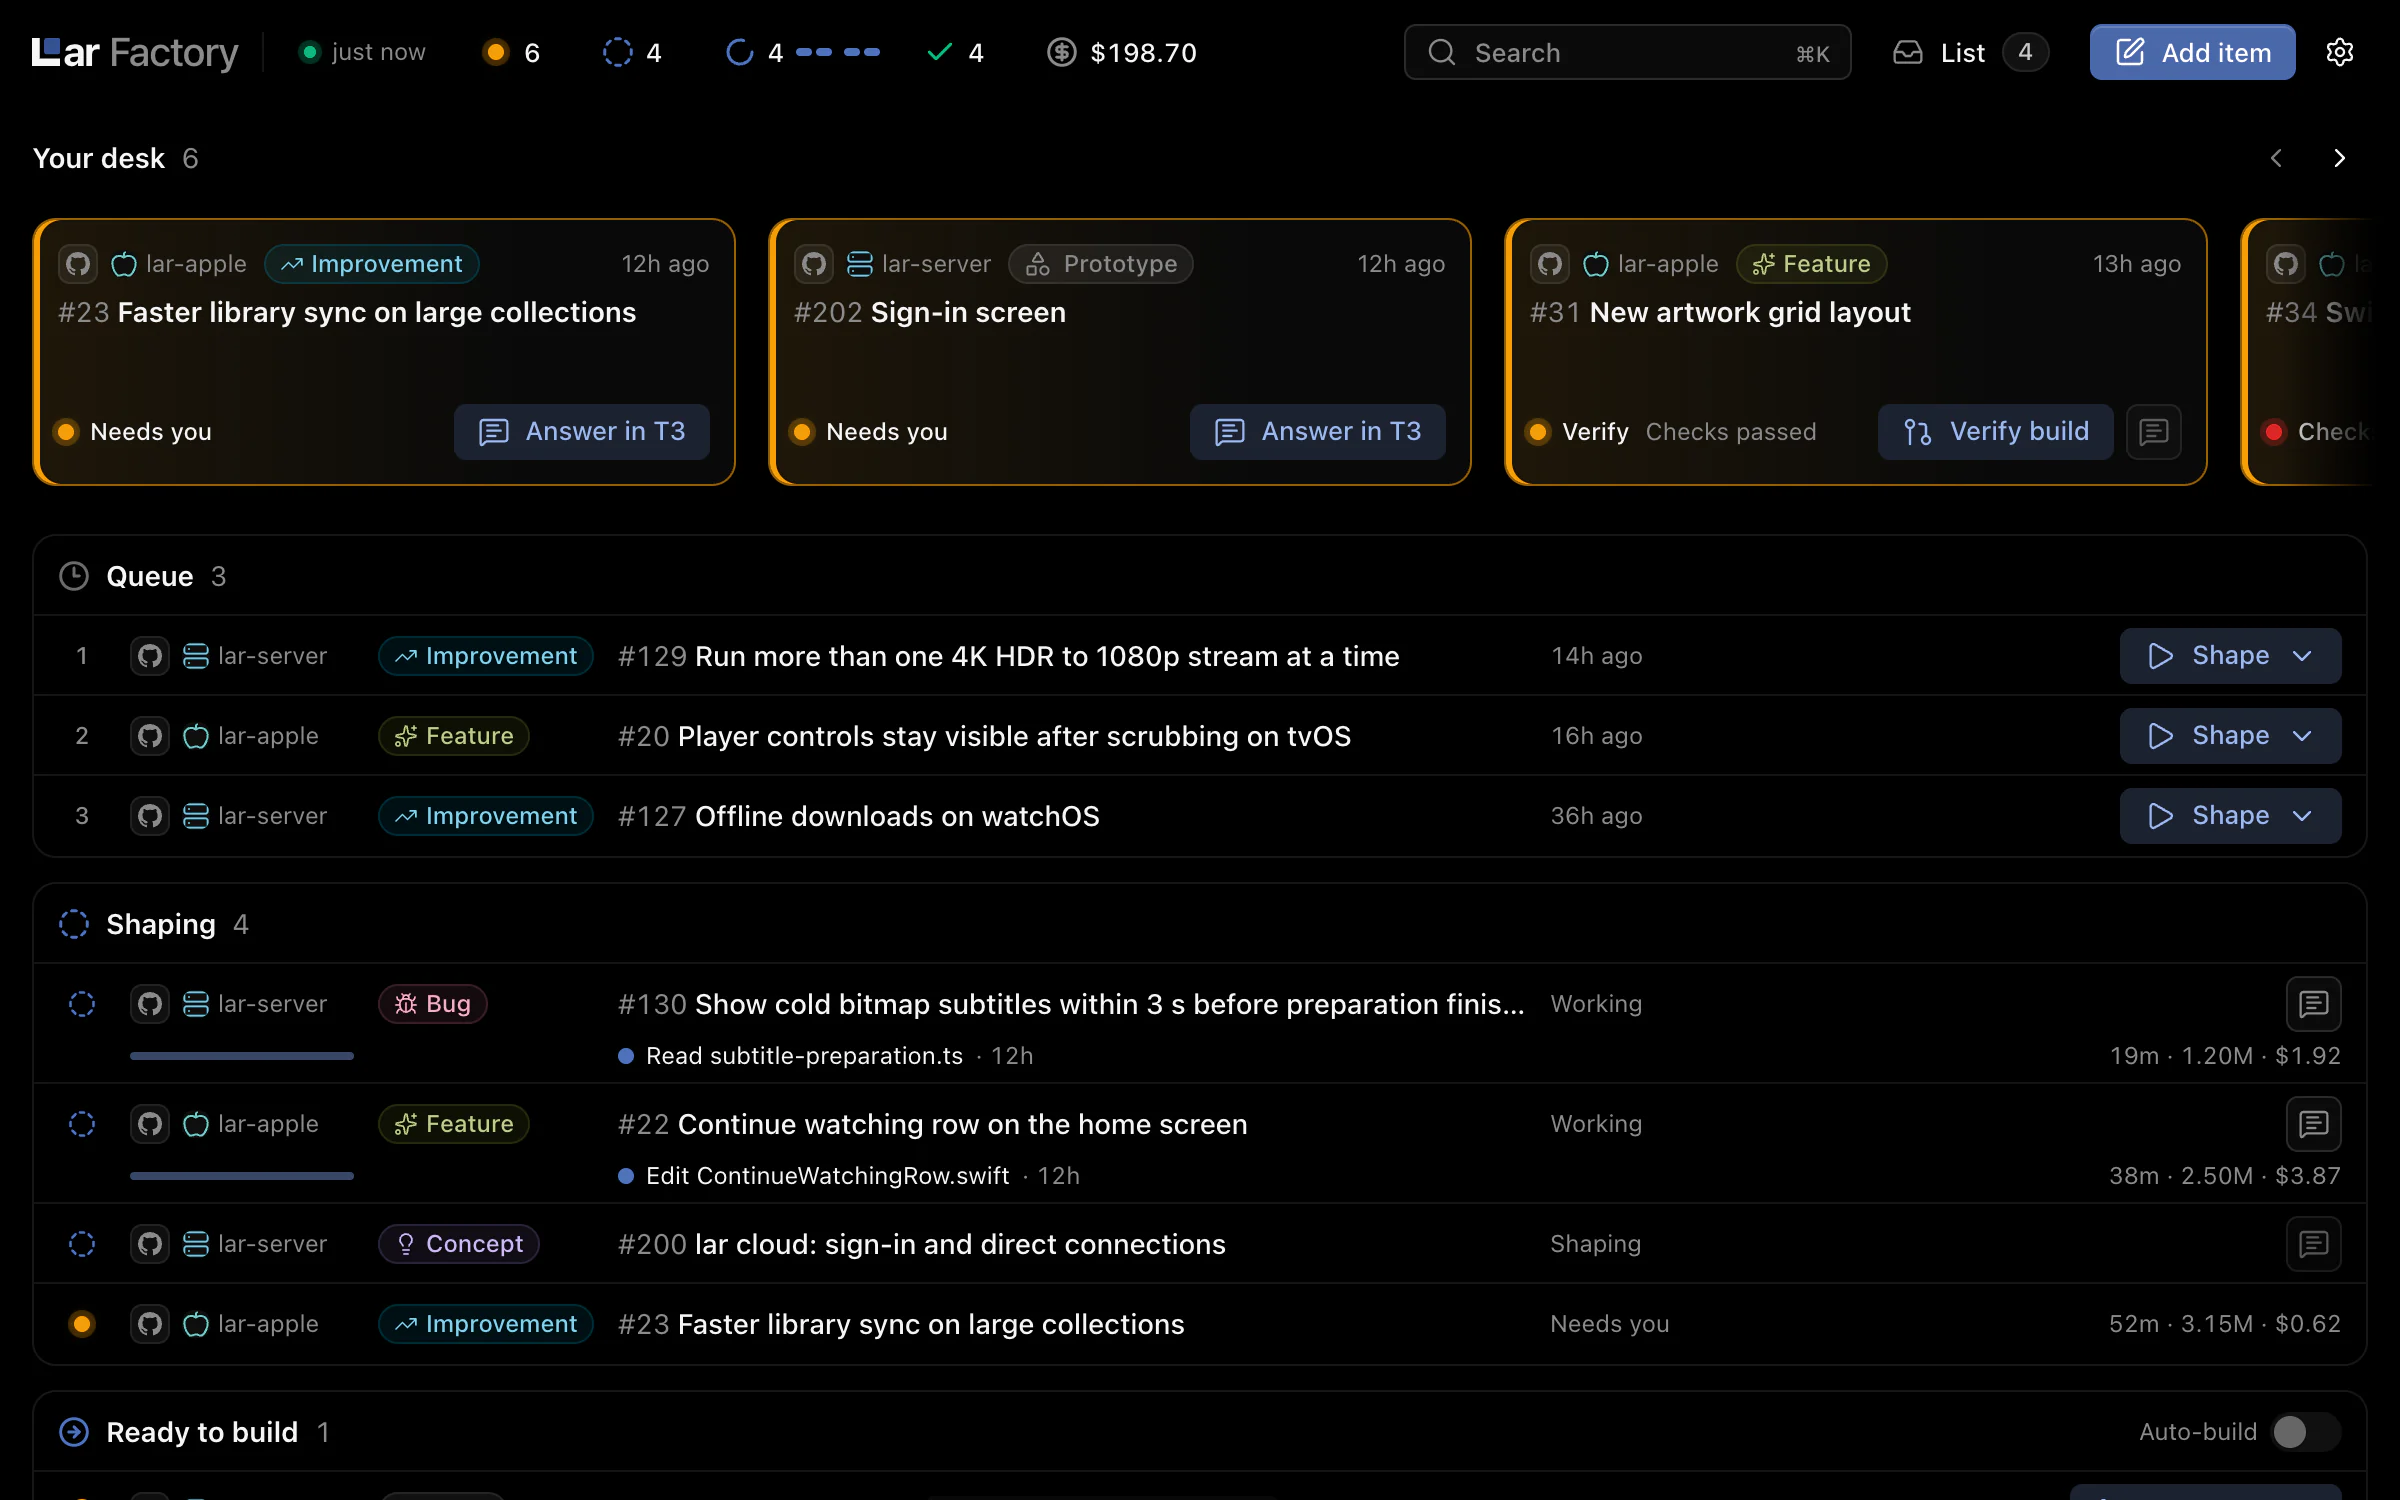
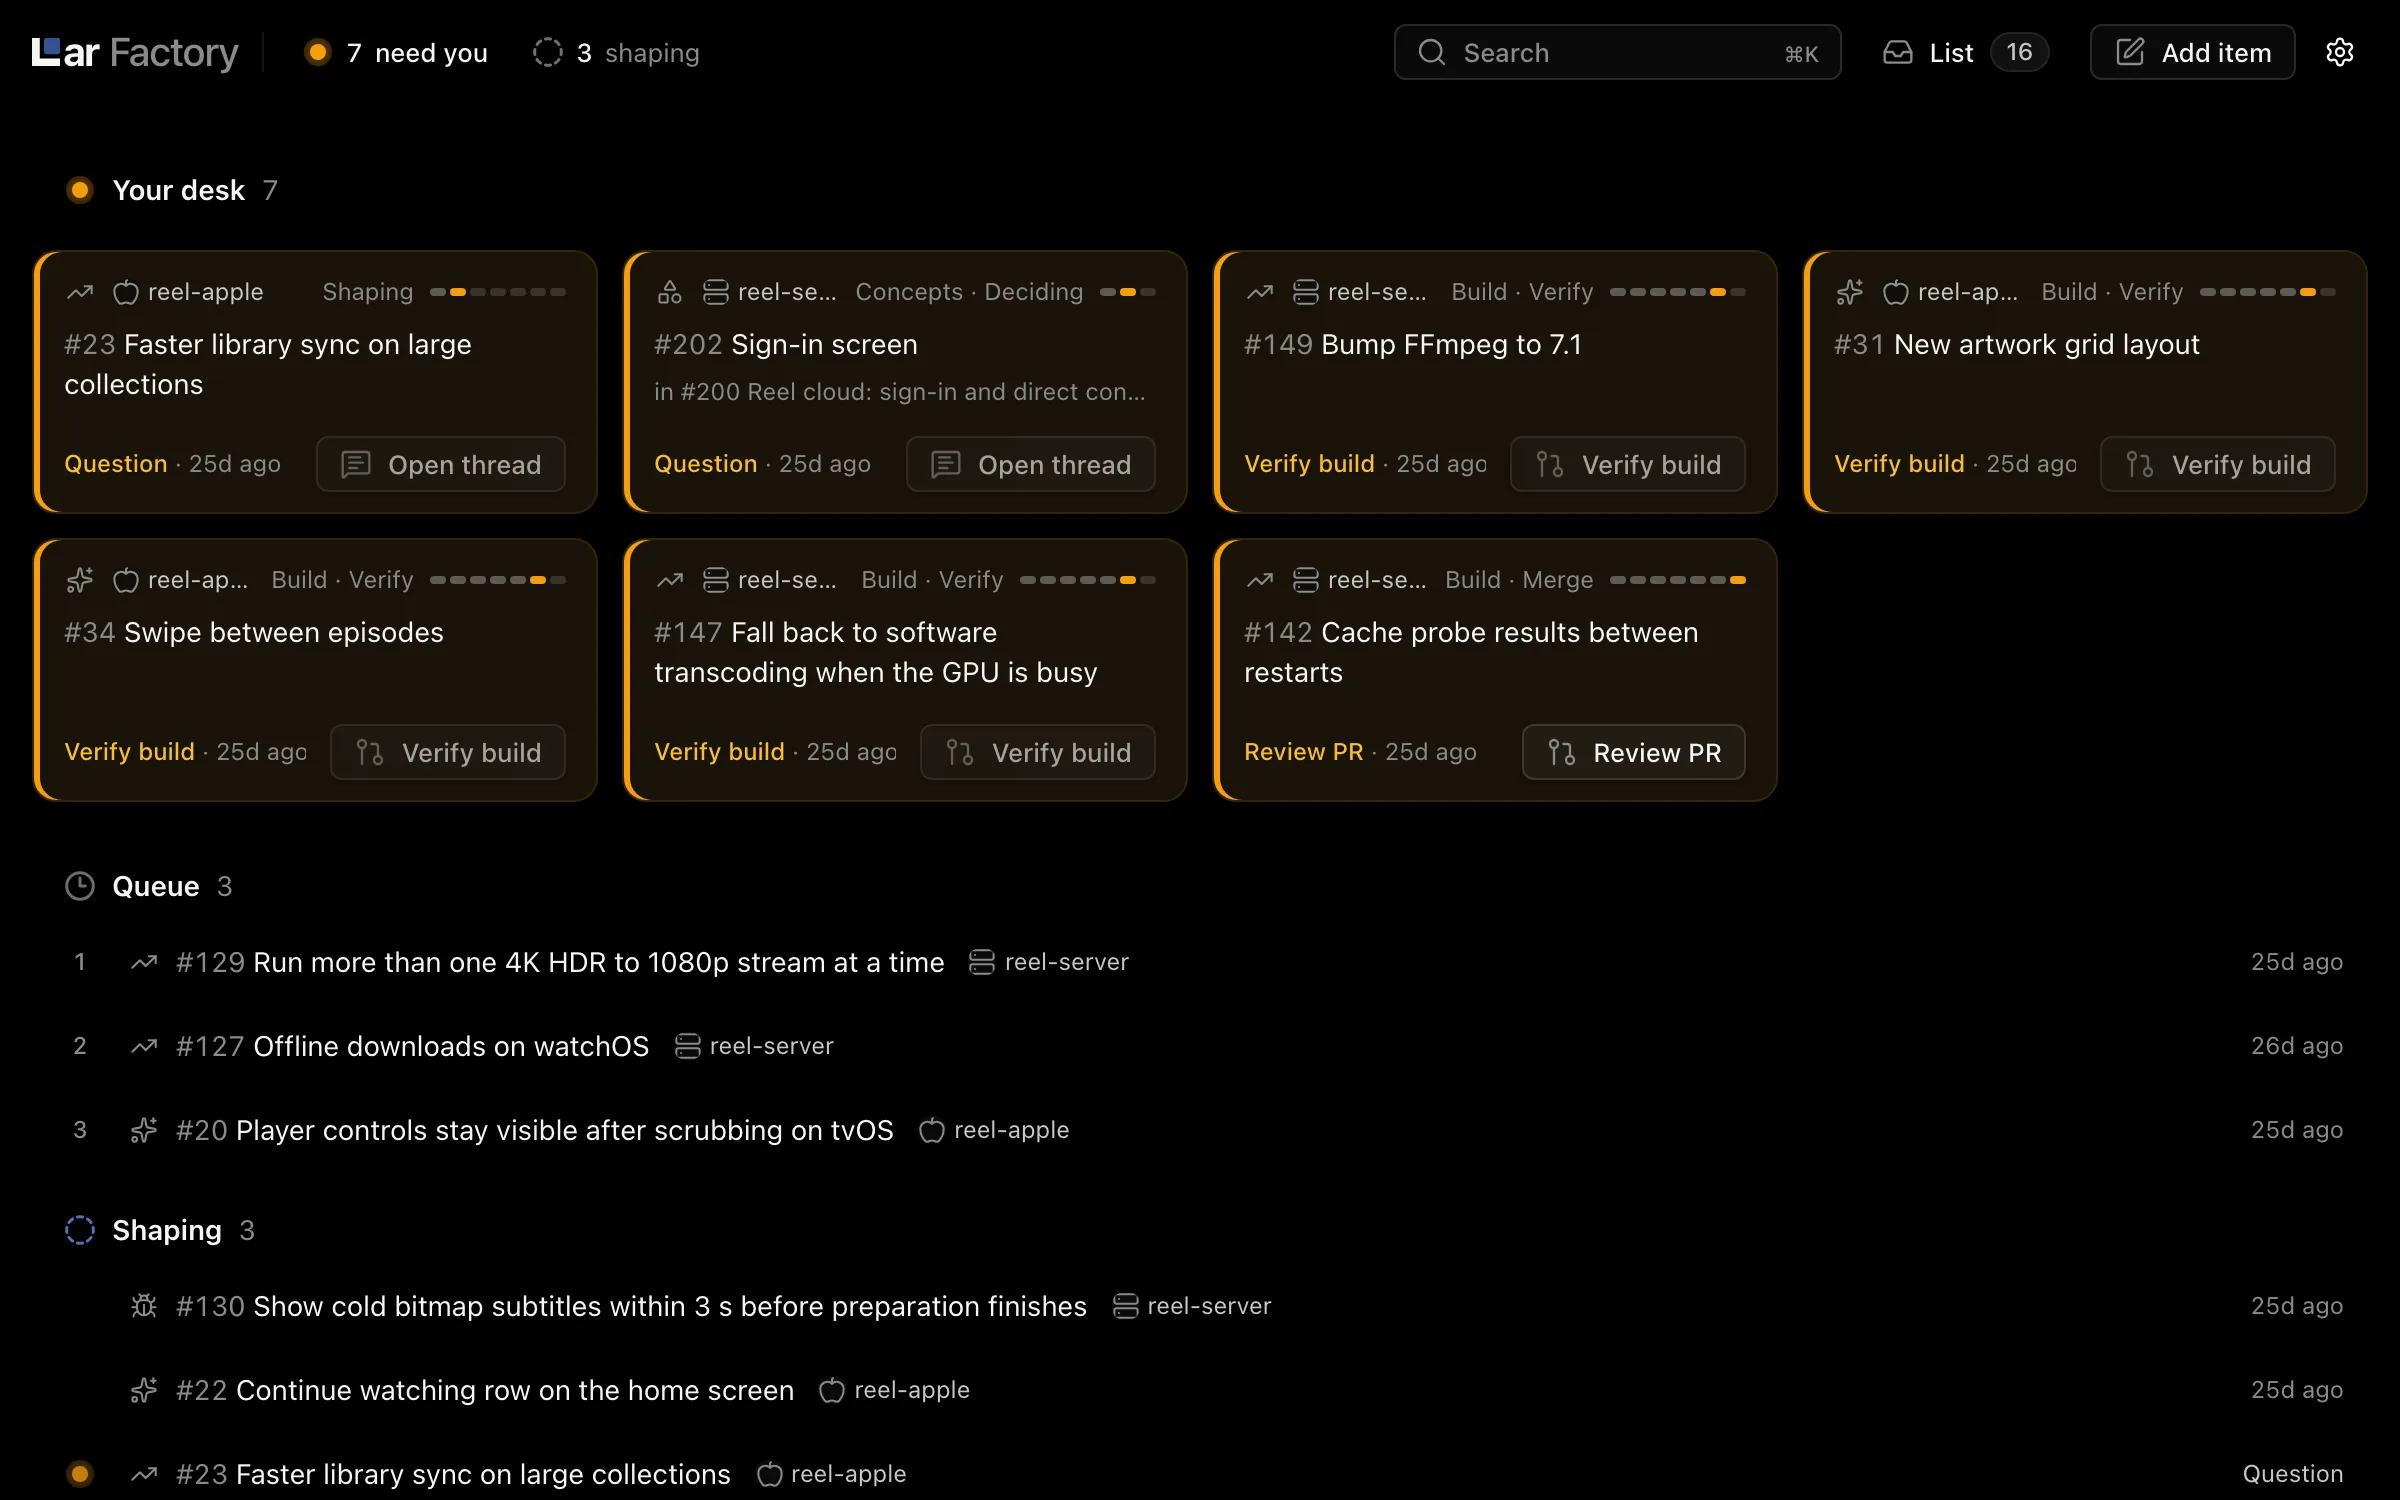
docs: README review fixes

diff --git a/README.md b/README.md
@@ -8,14 +8,14 @@
 <p align="center">Your software factory, running on your Mac.</p>
 
 <p align="center">
-  <a href="https://github.com/maddec01/lar-factory/releases/latest"><strong>Download</strong></a> ·
+  <a href="https://github.com/maddec01/lar-factory/releases"><strong>Download</strong></a> (nightly builds) ·
   <a href="https://lar.works/factory">Website</a>
 </p>
 
 <p align="center">
   <picture>
     <source media="(prefers-color-scheme: dark)" srcset=".github/readme/board-dark.webp">
-    <img src=".github/readme/board-light.webp" width="100%" alt="The Lar Factory board: your desk with items that need an answer or a build to verify, the queue of issues waiting to be shaped, and the items being shaped with their progress and cost">
+    <img src=".github/readme/board-light.webp" width="100%" alt="The Lar Factory board: your desk with items that need an answer or a build to verify, the queue of issues waiting to be shaped, and the items being shaped">
   </picture>
 </p>
 
@@ -40,7 +40,8 @@ board, start a build when it's ready, and merge every pull request yourself.
 
 ## Get started
 
-1. Download the Mac app (Apple silicon) from [GitHub Releases](https://github.com/maddec01/lar-factory/releases/latest).
+1. Download the latest nightly build of the Mac app (Apple silicon) from
+   [GitHub Releases](https://github.com/maddec01/lar-factory/releases).
 2. Install and open [T3 Code](https://t3.codes): Factory's agents run there, with the models and access
    you set up.
 3. Sign in to your tracker with `gh auth login` (GitHub) or `az login` (Azure DevOps).
